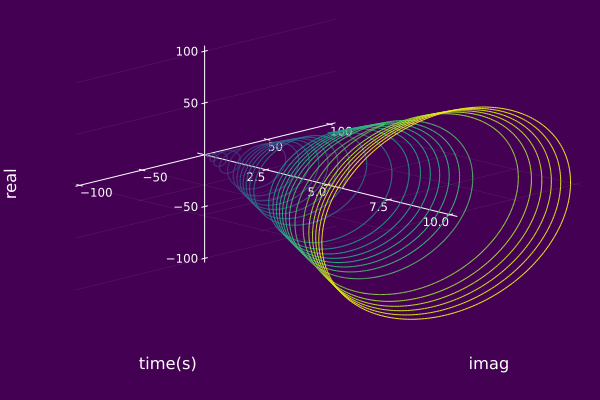
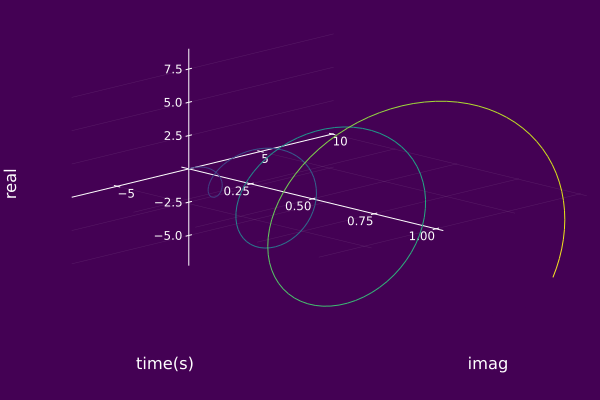
Edited recipes docs

diff --git a/docs/src/recipes.md b/docs/src/recipes.md
@@ -20,15 +20,29 @@ Plot recipes were designed with default plot parameters that should be suitable 
 using ISA, Plots
 𝐶₀ = AMFMtriplet(t->10t,t->25cos(t),0.0)
 ψ₀ = AMFMcomp(𝐶₀)
-plot(ψ₀; timeaxis=0.0:0.001:10.0)
+plot(ψ₀)
 ```
 ![](https://raw.githubusercontent.com/NMSU-ISA/ISA/master/docs/src/assets/default1.png)
 
 ```julia
-# change the camera angle
-plot(ψ₀; timeaxis=0.0:0.001:10.0, camera=(20,60))
+# change the time axis and camera angle
+plot(ψ₀; timeaxis=0.0:0.001:10.0, camera=(20,50))
 ```
 ![](https://raw.githubusercontent.com/NMSU-ISA/ISA/master/docs/src/assets/costum1.png)
+
+
+The following is a list of some of the default parameters used in ISA plot recipes:
+
+| Parameter | Default Value |
+| ------ | ------ |
+| xguide | "time(s)" |
+| yguide | "imag" |
+| zguide | "real" |
+| background_color | cubeYF()[1] |
+| foreground_color | :white |
+| ymirror | true |
+| legend | false |
+| framestyle | :origin |
 
 Changing axis's title and location is possible too:
 ```julia
